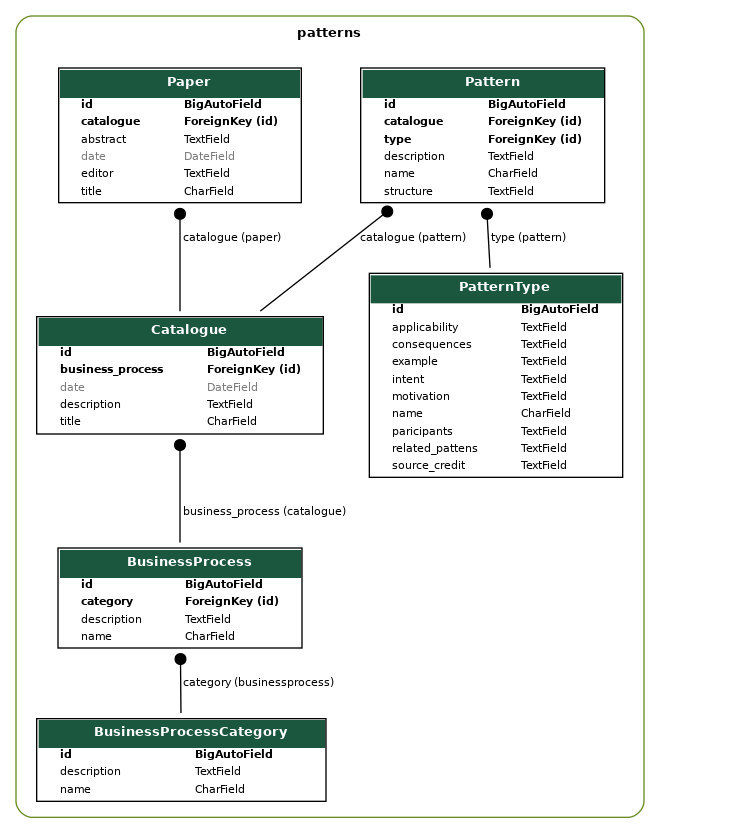
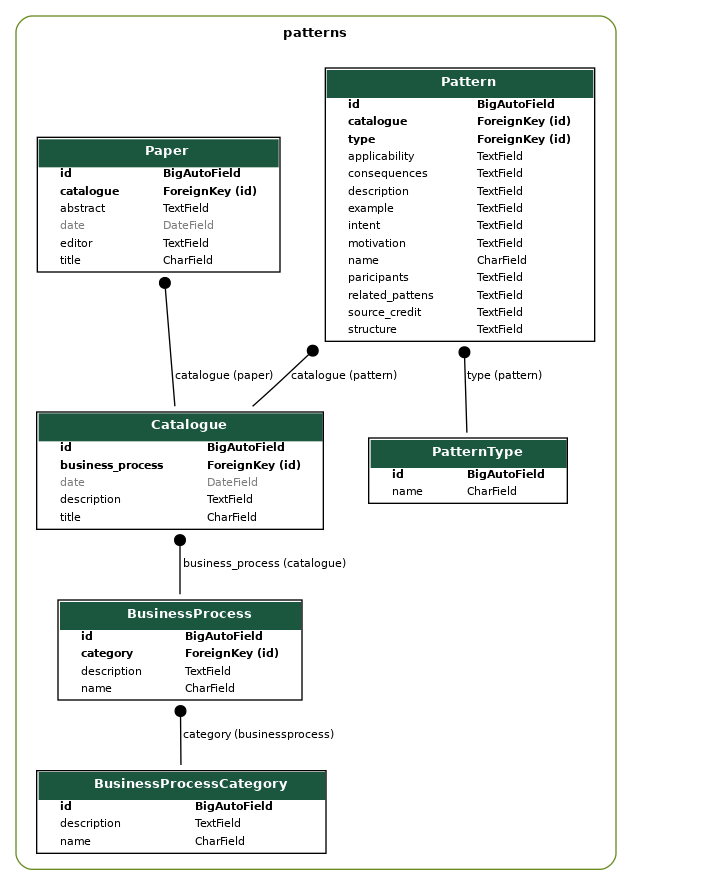
Update pattern structure

Changed region(s): [[0.0311, 0.0312, 0.9024, 0.9988], [0.8402, 0.0, 0.8713, 0.0312]]

diff --git a/patterns/migrations/0001_initial.py b/patterns/migrations/0001_initial.py
@@ -1,4 +1,4 @@
-# Generated by Django 4.0.5 on 2022-06-28 19:26
+# Generated by Django 4.0.5 on 2022-07-27 18:02
 
 from django.db import migrations, models
 import django.db.models.deletion
@@ -55,33 +55,10 @@ class Migration(migrations.Migration):
             fields=[
                 ('id', models.BigAutoField(auto_created=True, primary_key=True, serialize=False, verbose_name='ID')),
                 ('name', models.CharField(max_length=50, unique=True, verbose_name='Nombre')),
-                ('intent', models.TextField(verbose_name='Intención')),
-                ('motivation', models.TextField(verbose_name='Motivación')),
-                ('applicability', models.TextField(verbose_name='Aplicación')),
-                ('paricipants', models.TextField(verbose_name='Participantes')),
-                ('consequences', models.TextField(verbose_name='Consequencias')),
-                ('example', models.TextField(verbose_name='Ejemplo')),
-                ('related_pattens', models.TextField(verbose_name='Patrones relacionados')),
-                ('source_credit', models.TextField(verbose_name='Creditos a la fuente')),
             ],
             options={
                 'verbose_name': 'Tipo de patrón',
                 'verbose_name_plural': 'Tipos de patrones',
-            },
-        ),
-        migrations.CreateModel(
-            name='Pattern',
-            fields=[
-                ('id', models.BigAutoField(auto_created=True, primary_key=True, serialize=False, verbose_name='ID')),
-                ('name', models.CharField(max_length=50, unique=True, verbose_name='Nombre')),
-                ('description', models.TextField(verbose_name='Descripción')),
-                ('structure', models.TextField(verbose_name='Estructura')),
-                ('catalogue', models.ForeignKey(on_delete=django.db.models.deletion.PROTECT, to='patterns.catalogue', verbose_name='Catálogo')),
-                ('type', models.ForeignKey(on_delete=django.db.models.deletion.PROTECT, to='patterns.patterntype', verbose_name='Tipo de Patrón')),
-            ],
-            options={
-                'verbose_name': 'Patrón',
-                'verbose_name_plural': 'Patrones',
             },
         ),
         migrations.CreateModel(
@@ -103,5 +80,29 @@ class Migration(migrations.Migration):
             model_name='businessprocess',
             name='category',
             field=models.ForeignKey(on_delete=django.db.models.deletion.PROTECT, to='patterns.businessprocesscategory', verbose_name='Categoria'),
+        ),
+        migrations.CreateModel(
+            name='Pattern',
+            fields=[
+                ('id', models.BigAutoField(auto_created=True, primary_key=True, serialize=False, verbose_name='ID')),
+                ('description', models.TextField(verbose_name='Descripción')),
+                ('name', models.CharField(max_length=50, verbose_name='Nombre')),
+                ('structure', models.TextField(verbose_name='Estructura')),
+                ('intent', models.TextField(verbose_name='Intención')),
+                ('motivation', models.TextField(verbose_name='Motivación')),
+                ('applicability', models.TextField(verbose_name='Aplicación')),
+                ('paricipants', models.TextField(verbose_name='Participantes')),
+                ('consequences', models.TextField(verbose_name='Consequencias')),
+                ('example', models.TextField(verbose_name='Ejemplo')),
+                ('related_pattens', models.TextField(verbose_name='Patrones relacionados')),
+                ('source_credit', models.TextField(verbose_name='Creditos a la fuente')),
+                ('catalogue', models.ForeignKey(on_delete=django.db.models.deletion.PROTECT, to='patterns.catalogue', verbose_name='Catálogo')),
+                ('type', models.ForeignKey(on_delete=django.db.models.deletion.PROTECT, to='patterns.patterntype', verbose_name='Tipo de Patrón')),
+            ],
+            options={
+                'verbose_name': 'Patrón',
+                'verbose_name_plural': 'Patrones',
+                'unique_together': {('name', 'type')},
+            },
         ),
     ]

diff --git a/patterns/models.py b/patterns/models.py
@@ -51,15 +51,6 @@ class Catalogue (models.Model):
 # Patterns
 class PatternType(models.Model):
     name = NAME
-    intent = models.TextField(verbose_name="Intención")
-    motivation = models.TextField(verbose_name="Motivación")
-    applicability = models.TextField(verbose_name="Aplicación")
-    paricipants = models.TextField(verbose_name="Participantes")
-    consequences = models.TextField(verbose_name="Consequencias")
-    example = models.TextField(verbose_name="Ejemplo")
-    related_pattens = models.TextField(verbose_name="Patrones relacionados")
-    source_credit = models.TextField(verbose_name="Creditos a la fuente")
-
     def __str__(self): return self.name
 
     class Meta:
@@ -71,17 +62,26 @@ class PatternType(models.Model):
         return f'{self.name} {self.intent} {self.motivation} {self.applicability} {self.paricipants} {self.consequences} {self.example}'.split()
 
 class Pattern(models.Model):
-    name = NAME
+    name = models.CharField(max_length=50, verbose_name="Nombre")
     description = DESCRIPTION
     structure = models.TextField(verbose_name="Estructura")
     type = models.ForeignKey(PatternType, on_delete=models.PROTECT, verbose_name="Tipo de Patrón")
     catalogue = models.ForeignKey(Catalogue, on_delete=models.PROTECT, verbose_name="Catálogo")
-
-    def __str__(self): return self.name
+    intent = models.TextField(verbose_name="Intención")
+    motivation = models.TextField(verbose_name="Motivación")
+    applicability = models.TextField(verbose_name="Aplicación")
+    paricipants = models.TextField(verbose_name="Participantes")
+    consequences = models.TextField(verbose_name="Consequencias")
+    example = models.TextField(verbose_name="Ejemplo")
+    related_pattens = models.TextField(verbose_name="Patrones relacionados")
+    source_credit = models.TextField(verbose_name="Creditos a la fuente")
+    
+    def __str__(self): return f'{self.name} ({self.type})'
 
     class Meta:
         verbose_name = "Patrón"
         verbose_name_plural = "Patrones"
+        unique_together = (("name", "type"),)
     
     def get_words(self):
         words = unicodedata.normalize('NFKD', f'{self.name} {self.description} {self.type.name} {self.catalogue.title}'.lower()).encode('ASCII', 'ignore').split()

diff --git a/README.md b/README.md
@@ -1,5 +1,5 @@
 # PatCat
-PatCat (Pattern Catalogue) is a web catalog of business patterns applied in real cases of e-government.
+PatCat (Pattern Catalog) is a web catalog of business patterns applied in real cases of e-government.
 
 # Modules
 ## Pattern
@@ -9,7 +9,7 @@ Manages the application models and their modification by an administrator.
 # Instalation and execution
 - Create a virtual env for python3
     python venv venv
-- Intstall libraries:
+- Install libraries:
     pip install -r requirements.txt
 
 # Generating the docs
